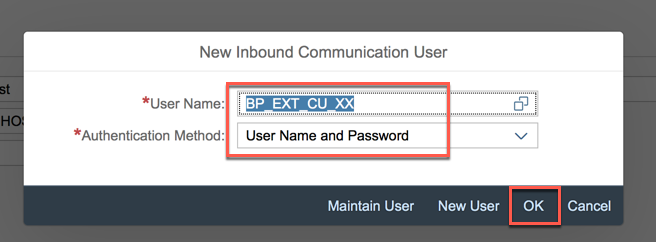
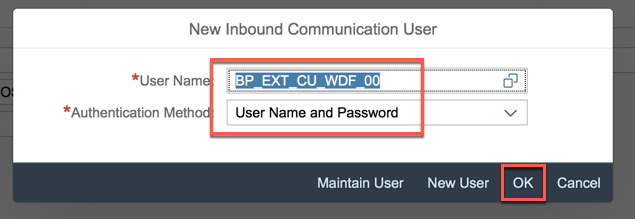
Exercise 23 updated with LOCATION

diff --git a/Day2/Exercise_23/Exercise_23.md b/Day2/Exercise_23/Exercise_23.md
@@ -54,7 +54,7 @@ In the upcoming exercises you will learn how to retrieve and work with data usin
 1. Click on **New** to create a new communication system  
 	![](images/04.png)
 
-1. Enter **BP\_EXT\_SYSTEM\_XX** for both the System ID and the System Name, replacing **XX** with your workstation ID received by the instructor; then click **Create**  
+1. Enter **BP\_EXT\_SYSTEM\_\<LOC\>\_XX** for both the System ID and the System Name, replacing **\<LOC\>** with the location's acronym where you are attending the workshop (i.e. WDF for Walldorf) and **XX** with your workstation ID. Both information will be provided you by the instructor. When done click **Create**  
 	![](images/05.png)
 
 1. Enter
@@ -76,11 +76,11 @@ In the upcoming exercises you will learn how to retrieve and work with data usin
 
 	| Parameter | Value |
 	| --------- | ----- |
-	| User Name | BP\_EXT\_CU\_XX |
-	| Description | BP External Communication User XX |
+	| User Name | BP\_EXT\_CU\_\<LOC\>\_XX |
+	| Description | BP External Communication User \<LOC\> XX |
 	| Password | "A password with at least 8 chars with a upper case char,numbers and a special character (i.e. Welcome123#)" |
 
-(where **XX** is your workstation ID)
+(where **\<LOC\>** with the location's acronym where you are attending the workshop and **XX** is your workstation ID)
 
 Then click on the **Create** button  
 	![](images/09.png)
@@ -118,13 +118,13 @@ The next step is to create a new Communication Arrangement.
 1. Select the **SAP\_COM\_0008** scenario  
 	![](images/18.png)
 
-1. Enter **BP\_COMM\_ARR\_XX** as Arrangement Name replacing **XX** with your workstation ID; then click **Create**  
+1. Enter **BP\_COMM\_ARR\_\<LOC\>\_XX** as Arrangement Name replacing **\<LOC\>** with the location's acronym where you are attending the workshop and **XX** with your workstation ID; then click **Create**  
 	![](images/19.png)
 
 1. Browse for a Communication System    
 	![](images/20.png)
 
-1. Select the Communication System **BP\_EXT\_SYSTEM\_XX** you created earlier where **XX** is your workstation ID
+1. Select the Communication System **BP\_EXT\_SYSTEM\_\<LOC\>\_XX** you created earlier where **\<LOC\>** with the location's acronym where you are attending the workshop and **XX** is your workstation ID
 	![](images/21.png)
 
 1. The correct information is loaded automatically. 
@@ -161,7 +161,7 @@ In order to test the service provided by your new Communication Arrangement you 
 	- paste the **URL** you got at the end of the previous chapter
 	- click on **the Authorization tab**
 	- select **Basic Auth**
-	- enter your **Communication User** with its password (**XX** is your workstation ID)
+	- enter your **Communication User** with its password
 	- click the **Send** button
 	
 	![](images/30.png)
